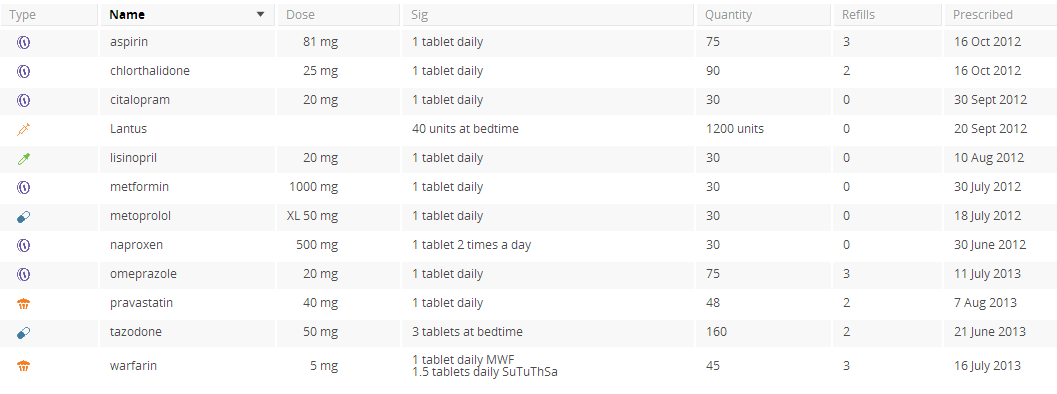
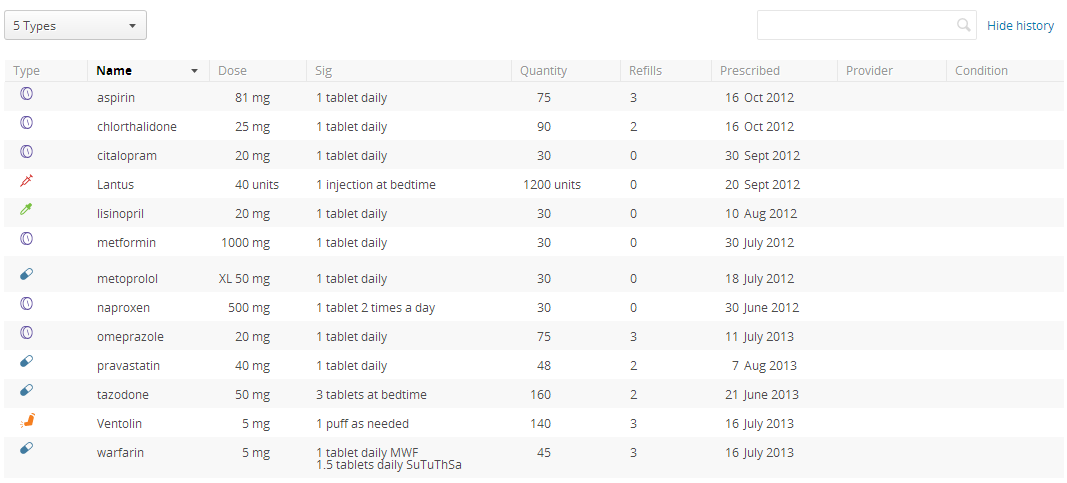
interactive table update
Using sort-key to better sort in specified orders
Added a dropdown filter for type (doesn't yet filter)
Replaced graphics with svg for better scaling

diff --git a/interactive-table/assets/css/layout.css b/interactive-table/assets/css/layout.css
@@ -236,6 +236,183 @@
 		padding-left: 3px;
 	}*/
 
+	
+/*#Dropdown Buttons 
+==================================================*/
+/*Uses button styles*/
+.active_dropdown_area{
+	cursor: pointer;
+	width: 60px;
+}
+#type_drop .active_dropdown_area{
+	width: 125px;
+}
+.dropdown{
+	font-family: 'Open Sans', 'OpenSansBold', "HelveticaNeue", "Helvetica Neue", Helvetica, Arial, sans-serif;
+	position: relative;
+	overflow: hidden;
+}
+.down_dropped{
+	overflow: visible;
+}
+.dropdown .active_item_name{
+	display: block;
+	cursor: pointer;
+	font-size:12px;
+	display: block;
+	font-family: Helvetica, Arial;
+	color:#4d4d4d;
+	text-shadow: 1px 1px rgba(255,255,255,1);
+	font-family: 'Open Sans', 'OpenSansBold', "HelveticaNeue", "Helvetica Neue", Helvetica, Arial, sans-serif;
+}
+.dropdown .active_item_arrow{
+	width: 28px;
+	display: inline-block;
+	height: 30px;
+	background: url('../images/dropdown_arrow.svg') no-repeat;
+	background-position: center center;
+	position: absolute;
+	top: 0;
+	right: 0;
+}
+.dropdown .expanding_dropdown_area{
+	position: absolute;
+	top:28px;
+	width: 100px;
+	background: #fdfdfd;
+	border-radius: 3px;
+	line-height: 30px;
+	border: 1px solid #e5e5e5;
+	margin-left: -9px;
+	-moz-box-shadow:    0px 2px 3px 0px rgba(150,150,150,.3);
+	-webkit-box-shadow: 0px 2px 3px 0px rgba(150,150,150,.3);
+	box-shadow:         0px 2px 3px 0px rgba(150,150,150,.3);
+}
+.dropdown.down_dropped{
+}
+#type_drop .expanding_dropdown_area{
+	width: 150px;
+}
+.dropdown .expanding_dropdown_area .arrow {
+	background: url("../images/light_arrow_up.png");
+	background-repeat: no-repeat;
+	display: block;
+	height:9px;
+	width:14px;
+}
+.dropdown .expanding_dropdown_area .dropdown_opt{
+	display: block;
+	cursor: pointer;
+	position: relative;
+	transition: 	 	all 0.15s linear;
+	-moz-transition: 	all 0.15s linear; /* Firefox 4 */
+	-webkit-transition: all 0.15s linear; /* Safari and Chrome */
+	-o-transition: 		all 0.15s linear; /* Opera */
+	z-index: 100000;
+}
+.dropdown .expanding_dropdown_area .dropdown_opt input{
+	border: none;
+	background-color: transparent;
+	cursor: default;
+	margin-bottom: 0px;
+	padding-left: 7px;
+}
+.dropdown .expanding_dropdown_area input[type="checkbox"] {
+	vertical-align: bottom;
+	margin-bottom: 2px;
+}
+.dropdown .expanding_dropdown_area .dropdown_opt:last-child{
+	border-bottom: none;
+}
+.dropdown .expanding_dropdown_area .dropdown_opt:nth-child(even){
+	background:#fdfdfd;
+}
+.dropdown .expanding_dropdown_area .dropdown_opt:hover, 
+.dropdown .expanding_dropdown_area .dropdown_opt:nth-child(even):hover{
+	z-index: 100001;
+	background-color: #eee;
+}
+.filter .dropdown .expanding_dropdown_area .dropdown_opt:nth-child(even){
+	background:#fdfdfd;
+}
+.filter .dropdown .expanding_dropdown_area .dropdown_opt:hover, 
+.filter .dropdown .expanding_dropdown_area .dropdown_opt:nth-child(even):hover{
+	z-index: 100001;
+	background-color: #fdfdfd;
+}
+.dropdown_head{
+	border-bottom: solid 1px #e1e1e1;
+	background: #f5f5f5;
+}
+.dropdown_head input{
+	border: none;
+	color: #b5b5b5;
+	border-radius: 3px;
+	-moz-box-shadow: 0px -1px 1px 0 #d6d6d6;
+	-webkit-box-shadow: 0px -1px 1px 0 #d6d6d6;
+	box-shadow: 0px -1px 1px 0 #d6d6d6;
+	height: 22px;
+	line-height: 22px;
+	margin: 8px 0 8px 8px;
+	padding: 0 8px 0 8px;
+}
+.dropdown.disabled,
+.button.disabled,
+button.disabled,
+input[type="submit"].disabled,
+input[type="reset"].disabled,
+input[type="button"].disabled {
+	cursor: default;
+	color: #b5b5b5;
+	border: solid #e2e2e2 1px;
+	background: #fafafa;
+}
+.dropdown.disabled:hover,
+.button.disabled:hover,
+button.disabled:hover,
+input[type="submit"].disabled:hover,
+input[type="reset"].disabled:hover,
+input[type="button"].disabled:hover {
+	cursor: default;
+	color: #b5b5b5;
+	border: solid #e2e2e2 1px;
+	background: #fafafa;
+	box-shadow: none;
+}
+.dropdown.disabled .active_item_arrow{
+	background-image:  url(../images/light_drop_arrow.png);
+}
+.dropdown.disabled .active_dropdown_area{
+	cursor: default;
+}
+.dropdown.disabled .active_item_name{
+	cursor: default;
+	color: #b5b5b5;
+}
+#types_drop .dropdown_head input{
+	width: 140px;
+}
+.expanding_dropdown_area{
+	background: #fdfdfd;
+}
+.expanding_dropdown_area .fright{
+	border-left: #e4e4e4 solid 1px;
+}
+.expanding_dropdown_area h6{
+	border-bottom: #e4e4e4 solid 1px;
+	padding: 10px 6px 8px 6px;
+}
+.expanding_dropdown_area ul li{
+	list-style: none;
+}
+.expanding_dropdown_area ul{
+	padding-top:10px;
+	margin-left: 6px;
+	border-top: solid 1px #fff;
+}
+.expanding_dropdown_area ul li ul{
+	margin-left: -18px;
+}
 
 /* #Forms */
 	form { margin-bottom: 20px; }
@@ -536,9 +713,11 @@ table.main_table tbody tr td.type .med_type{
 	display: none;
 }
 .show_closed {
+	font-size: 12px;
 	cursor: pointer;
 	color: #0082b2;
-	padding-right: 8px;
+	padding: 10px;
+	
 }
 .med_list table.current_version tbody tr.current_active{
 	display: block;
@@ -597,11 +776,13 @@ table.main_table.off tbody tr.to_pv.current{
 	display: none;
 }
 #search label {
-	font-family: 'OpenSansRegular';
-	font-weight: normal;
+	background: url('../images/search.svg') no-repeat;
 	position: absolute;
-	margin: 10px 0 0 8px;
-	z-index: 0;
+	right: 0;
+	margin: 8px 102px 0 0;
+	display: block;
+	height: 15px;
+	width: 15px;
 }
 #search input {
 	opacity: .5;

diff --git a/interactive-table/med-table.html b/interactive-table/med-table.html
@@ -11,6 +11,8 @@
 	<link rel="stylesheet" href="./assets/css/layout.css">
 	<script src="http://code.jquery.com/jquery-1.7.2.min.js"></script>
 	<script src="./assets/js/main.js" type="text/javascript"></script>
+	<script src="./assets/js/checkboxes.js" type="text/javascript"></script>
+	<script src="./assets/js/dropdowns.js" type="text/javascript"></script>
 	<!--[if lt IE 9]>
 		<script src="http://html5shim.googlecode.com/svn/trunk/html5.js"></script>
 	<![endif]-->
@@ -24,22 +26,50 @@
 	<section class="container">
 		<div class="sixteen columns">
 		<div class="med_table_opt cf">
-			<span class="show_closed fleft">Hide history</span>
-			<span id="search" class="fright">
-				<label for="filter">Search</label> <input type="text" name="filter" value="" id="filter" />
+			<div class="button dropdown" id="type_drop">
+				<div class="active_dropdown_area">
+					<div class="active_item_name">
+					<span>5 Types</span>
+					<input type="hidden" value="Types" disabled="disabled" /></div>
+					<div class="active_item_arrow"></div>
+				</div>
+				<div class="expanding_dropdown_area">
+					<div class="filter" id="type_filter">
+						<h6><input type="checkbox" id="selectAllTypes"/>
+							<span class="check_label">All Med Types</span></h6>
+							<ul>
+								<li><input type="checkbox" class="type" name="type" value="1"/>
+									<span class="check_label">Capsule</span></li>
+								<li><input type="checkbox" class="type" name="type" value="2"/>
+									<span class="check_label">Inhaler</span></li>
+								<li><input type="checkbox" class="type" name="type" value="3"/>
+									<span class="check_label">Injection</span></li>
+								<li><input type="checkbox" class="type" name="type" value="4"/>
+									<span class="check_label">Liquid</span></li>
+								<li><input type="checkbox" class="type" name="type" value="5"/>
+									<span class="check_label">Tablet</span></li>
+							</ul>
+					</div>
+				</div>
+			</div>
+			
+			
+			<span class="show_closed fright">Hide history</span>
+			<span id="search" class="fright cf">
+				<label for="filter"></label> <input type="text" name="filter" value="" id="filter" />
 			</span>
 		</div>
 		
 		<table class="main_table med_table">
 			<thead>
 				<tr>
-					<th><span class="col-head">Type <span class="arrow"></span></span></th>
-					<th class="sorted-asc"><span class="col-head">Name <span class="arrow"></span></span></th> <!--brand/generic-->
-					<th><span class="col-head">Dose <span class="arrow"></span></span></th> <!--dose form-->
-					<th><span class="col-head">Sig <span class="arrow"></span></span></th> <!--total daily dose-->
-					<th><span class="col-head">Quantity <span class="arrow"></span></span></th>
-					<th><span class="col-head">Refills <span class="arrow"></span></span></th> <!--therapeutic range-->
-					<th><span class="col-head"><!--Date -->Prescribed <span class="arrow"></span></span></th> <!-- end date--><!--duration -->
+					<th><span class="type col-head">Type <span class="arrow"></span></span></th>
+					<th class="name sorted-asc"><span class="col-head">Name <span class="arrow"></span></span></th> <!--brand/generic-->
+					<th><span class="dose col-head">Dose <span class="arrow"></span></span></th> <!--dose form-->
+					<th><span class="sig col-head">Sig <span class="arrow"></span></span></th> <!--total daily dose-->
+					<th><span class="quant col-head">Quantity <span class="arrow"></span></span></th>
+					<th><span class="refills col-head">Refills <span class="arrow"></span></span></th> <!--therapeutic range-->
+					<th><span class="prescribed col-head"><!--Date -->Prescribed <span class="arrow"></span></span></th> <!-- end date--><!--duration -->
 					<!--<th><span class="col-head">when refills due</span></th>-->
 					<th><span class="col-head"><!--Ordering -->Provider <span class="arrow"></span></span></th>
 					<th><span class="col-head"><!--Associated -->Condition <span class="arrow"></span></span></th>

diff --git a/index.html b/index.html
@@ -23,15 +23,19 @@
 		<div class="one-fifth column updates">
 			<h2>updates</h2>
 			<!--<p><span class="label">versions:</span><a href="./v1/">1</a></p>-->
-			<p id="lastupdate"><span class="label">last:</span>21 Aug 2013</p>
+			<p id="lastupdate"><span class="label">last:</span> 26 Aug 2013</p>
+				<p>Using sort-key to better sort in specified orders</p>
+				<p>Added a dropdown filter for type (doesn't yet filter)</p>
+				<p>Replaced graphics with svg for better scaling</p>
+			<div class="old">
+				<span class="update"><p>21 Aug 2013</p>
 					<p>Interactive Table</p>
 					<p>Added sort</p>
 					<p>Started adding filter</p>
-					<p>Show/hide history</p>
-			<div class="old">
-				</span>16 Aug 2013</p>
+					<p>Show/hide history</p></span>
+				<span class="update"><p>16 Aug 2013</p>
 					<p>Started Interactive Table</p>
-					<p>Started Simple List</p>
+					<p>Started Simple List</p></span>
 			</div>
 		</div>
 	</div><!--end container-->

diff --git a/interactive-table/assets/js/dropdowns.js b/interactive-table/assets/js/dropdowns.js
@@ -1,0 +1,26 @@
+$(document).ready(function(){
+	
+	$('.active_dropdown_area').click(function(){
+		var s = $(this).parent().hasClass("down_dropped");
+		$('.down_dropped').removeClass("down_dropped");
+		if(!s){
+			$(this).parent().addClass("down_dropped");
+		}else{
+			$(this).parent().removeClass("down_dropped");
+		}
+	});
+	
+	$('.dropdown_opt input').click(function(){
+		$('.down_dropped').removeClass("down_dropped");
+		alert($(this).val());
+	});
+	
+	$(".expanding_dropdown_area, .active_dropdown_area").click(function(e){
+		e.stopPropagation(); 
+	});
+	
+	$(document).click(function(){
+		$('.down_dropped').removeClass("down_dropped");
+	});
+
+});

diff --git a/contents.css b/contents.css
@@ -83,21 +83,27 @@ ul{
 .updates ul#datelist {
 	margin: 0px 0px 0px 32px;
 }
-.updates ul#datelist li a, a#lastdate{
+.updates ul#datelist li a, a#lastdate {
 	color: #4d4d4d;
 }
-#lastupdate{
+#lastupdate {
 	padding: 0px 0px 10px 0px;
 	border-bottom: solid 1px #ddd;
 	margin-left: 0;
 }
-.old{
+.old {
 	border-top: solid 1px #ededed;
 	color: #b5b5b5;
 	font-size: 10px;
 	padding-top: 10px;
 }
-
+.old .update { 
+	display: block;
+	padding-bottom: 10px;
+}
+.old .update p:first-child { 
+	color: #4d4d4d;
+}
 /* #Base 960 Grid
 ================================================== */
 

diff --git a/interactive-table/assets/js/checkboxes.js b/interactive-table/assets/js/checkboxes.js
@@ -1,0 +1,20 @@
+$(document).ready(function () {
+	$("#selectAllTypes").click(function () {
+		$('.type').attr('checked', this.checked);
+	});
+	$(".type").click(function(){
+		if($(".type").length == $(".type:checked").length) {
+			$("#selectAllTypes").attr("checked", "checked");
+		} else {
+			$("#selectAllTypes").removeAttr("checked");
+		}
+	});
+});
+
+
+
+
+
+
+
+
